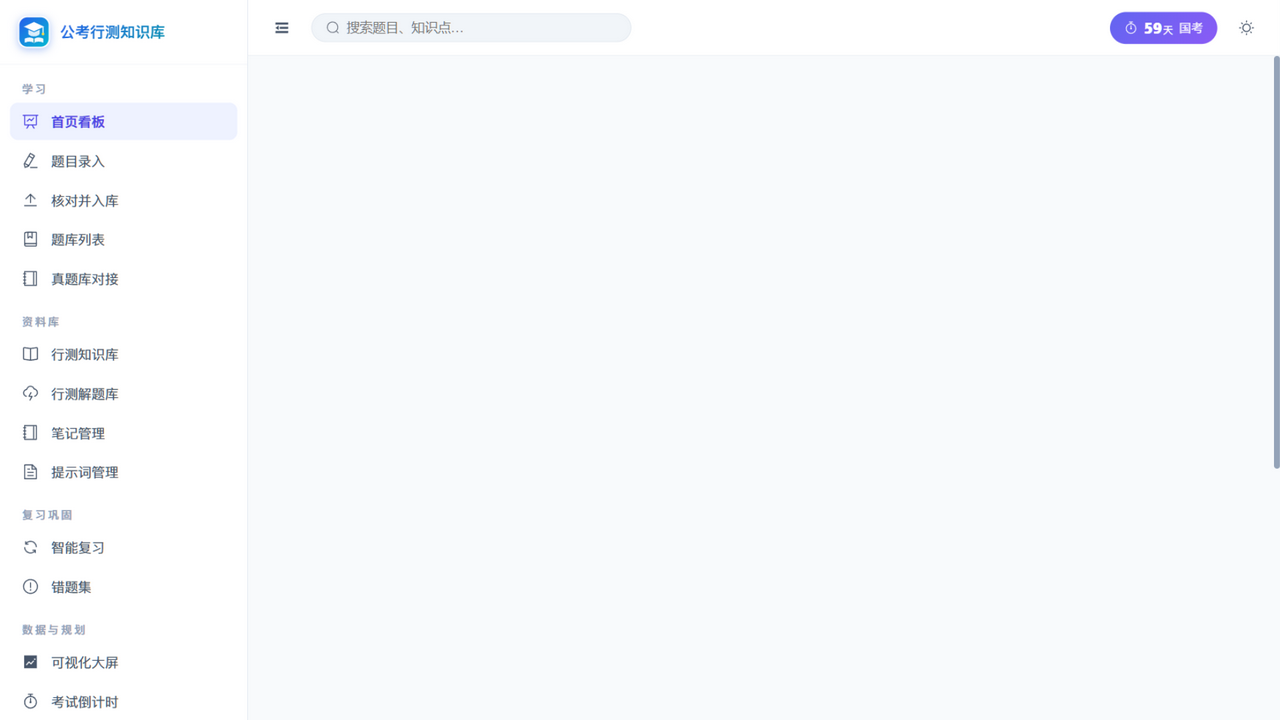
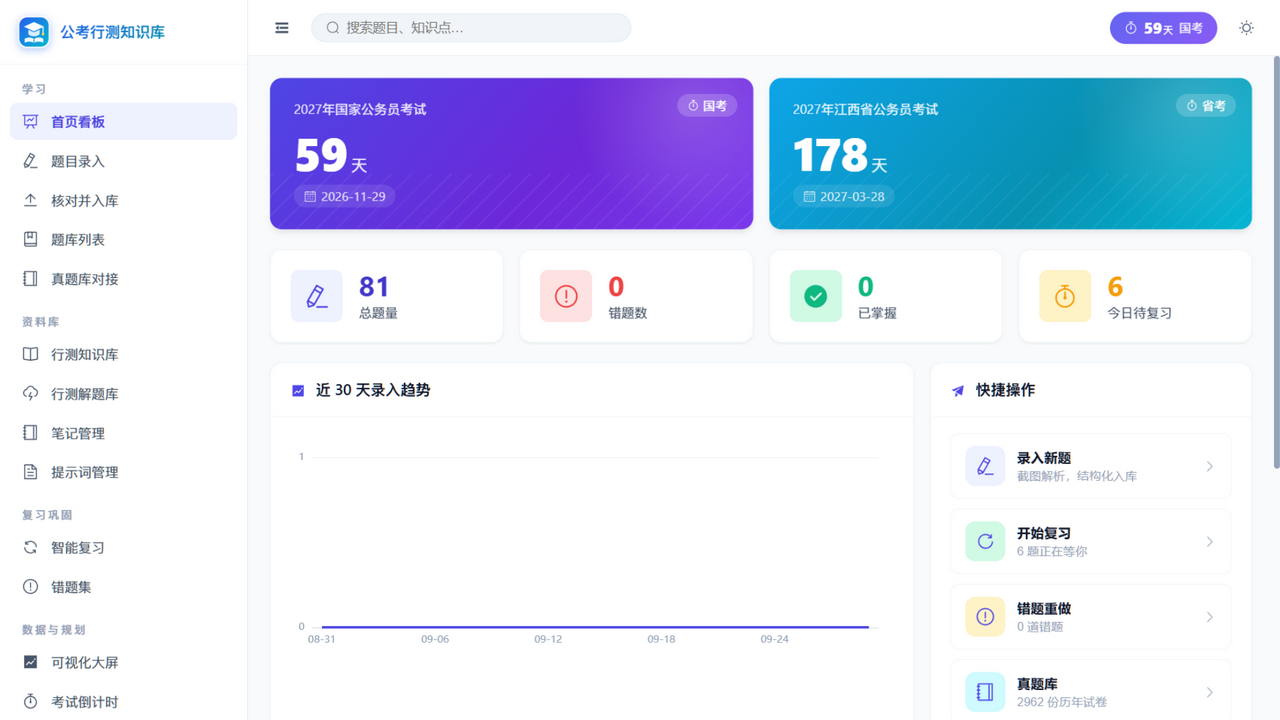
docs: README 回归旧版骨架并重截损坏截图
- 重截 dashboard.jpg / question-input.jpg（此前因路由懒加载截成空白页，
  改为轮询等待页面渲染完成后截图）
- README 按旧版结构组织：核心特性清单 → 技术栈表 → 目录结构 → 快速开始
  → 使用流程 → 界面预览表格 → 数据与隐私 → 开发 → 许可证；
  内容更新 v2.1（真题库对接 / FSRS / Anki 导出 / 数据集导入）

diff --git a/README.md b/README.md
@@ -1,8 +1,8 @@
 <div align="center">
 
-<img src="frontend/public/favicon.svg" width="72" alt="logo" />
+<img src="frontend/public/favicon.svg" width="64" alt="logo" />
 
-# 公考行测个人结构化知识库系统
+# 公考行测个人结构化知识库系统 v2.1
 
 **纯本地离线 · FSRS 记忆调度 · 真题库对接 · 零 AI 联网**
 
@@ -10,79 +10,80 @@
 [![Python](https://img.shields.io/badge/Python-3.11+-3776AB?logo=python&logoColor=white)](https://www.python.org/)
 [![FastAPI](https://img.shields.io/badge/FastAPI-0.104-009688?logo=fastapi&logoColor=white)](https://fastapi.tiangolo.com/)
 [![Vue 3](https://img.shields.io/badge/Vue-3-4FC08D?logo=vuedotjs&logoColor=white)](https://vuejs.org/)
-[![Element Plus](https://img.shields.io/badge/Element_Plus-2.4-409EFF?logo=element&logoColor=white)](https://element-plus.org/)
-
-一套**完全本地、离线运行**的公务员考试（行测）个人结构化备考系统：把外部 AI 生成的结构化解析一键入库，
-配合 **FSRS 科学复习**、**2962 份历年真题**、知识库/解题库沉淀与可视化复盘，全程不做任何 AI 联网调用。
-
-[快速开始](#-快速开始) · [界面预览](#-界面预览) · [核心特性](#-核心特性) · [复习算法](#-复习算法-fsrs) · [参与贡献](#-参与贡献)
 
 </div>
 
 ---
 
-## 🖼 界面预览
+一个**完全本地、离线**的公务员考试（行测）个人结构化备考系统。你只需把外部 AI 工具生成的**结构化解析内容**粘贴进来，系统即可自动解析为结构化题库、行测知识库与解题库，支撑错题复盘、FSRS 科学复习、备考笔记与可视化统计。**系统不做任何 AI 联网调用，AI 完全解耦。**
 
-| 首页看板 | 真题库对接 |
-| --- | --- |
-| ![首页看板](docs/screenshots/dashboard.jpg) | ![真题库对接](docs/screenshots/question-bank.jpg) |
-| **智能复习（FSRS 刷卡 + 快捷键）** | **可视化大屏** |
-| ![智能复习](docs/screenshots/review.jpg) | ![可视化大屏](docs/screenshots/visualization.jpg) |
-| **题目录入** | **行测知识库** |
-| ![题目录入](docs/screenshots/question-input.jpg) | ![行测知识库](docs/screenshots/knowledge.jpg) |
-
-> 更多截图见 [docs/screenshots](docs/screenshots/README.md)。
+---
 
 ## ✨ 核心特性
 
-### 📚 真题库对接（v2.1 新增）
-- 一键克隆并接入 [ERRRC/xingcezhenti](https://github.com/ERRRC/xingcezhenti)：**2016-2026 国考+省考 2962 份试卷、58890+ 道题**
-- 按六大模块浏览试卷 → 勾选题目 → 选择考点路径 → 批量入库，按题目 qid 自动去重
-- 题目图片（公式图/题目图）经本地媒体接口代理，浏览时直接渲染
-- **通用数据集导入**：C-Eval 等公开数据集（JSON/CSV/Parquet）放入 `data/question_sources/` 即可识别入库
+- 🧩 **七大模块驱动**：政治理论 / 常识判断 / 言语理解与表达 / 数量关系 / 判断推理 / 资料分析；按性质分为「记忆积累型」与「解题思路型」两类，贯穿提示词、录入、知识沉淀与统计。
+- 📥 **极简三步录入**：① 选考点复制提示词 → ② 粘贴 AI 返回的结构化解析 → ③ 解析预览 / 校正考点 / 确认入库；18 个结构化字段（细分考点 / 考察意图 / 破题逻辑 / 陷阱标注 / 速算技巧 / 卡片摘要…）。
+- 📚 **真题库对接（v2.1 新增）**：一键接入 [ERRRC/xingcezhenti](https://github.com/ERRRC/xingcezhenti)，**2016-2026 国考+省考 2962 份试卷**按模块浏览、勾选入库、按 qid 自动去重；题目图片本地代理直接渲染；支持 C-Eval 等公开数据集（JSON/CSV/Parquet）放入 `data/question_sources/` 即可导入。
+- 🧠 **FSRS 科学复习（v2.1 新增）**：接入 [FSRS 记忆调度算法](https://github.com/open-spaced-repetition/py-fsrs)（Anki 同款），每题独立稳定性/难度，动态安排复习时间；沉浸式刷卡界面，空格翻面、`1/2/3/4` 评分，提交即知下次复习时间；未安装 fsrs 库自动回退艾宾浩斯固定周期。
+- 📤 **Anki 牌组导出（v2.1 新增）**：一键导出 `.apkg`（题面 / 答案 / 解析 / 考点标签，公式图自动打包媒体），手机 AnkiDroid 随时随地刷题。
+- 📚 **行测知识库**：独立知识卡片，按「模块 / 类型 / 考点」三维导航；含考点定位面包屑与「来源题目」一键溯源。
+- 🛠 **行测解题库**：可复用的解题模板（破题逻辑 / 易错提醒 / 解题方法 / 速算技巧 / 题型识别）。
+- 🗂 **题库与详情**：按题型树分类、错题 / 掌握度筛选；题目详情展示 18 个结构化字段。
+- 📝 **备考笔记**：支持 AI 追问生成结构化笔记，卡片内完整展示题干与选项。
+- 📊 **可视化大屏**：雷达图（模块掌握度）、录入趋势、错题分布饼图、学习日历热力图、薄弱考点 TOP5。
+- 🎨 **现代界面**：Element Plus + 自建设计系统，明暗双主题、全站统一矢量图标、入场动画、侧栏分组、全局搜索。
+- 💾 **纯本地数据**：SQLite 单文件存储，一键备份 / 导出 Markdown、JSON 与 Anki 牌组。
 
-### 🧠 FSRS 科学复习（v2.1 新增）
-- 接入 [FSRS 记忆调度算法](https://github.com/open-spaced-repetition/py-fsrs)（Anki 同款），按每题独立的稳定性/难度动态安排复习时间
-- 沉浸式刷卡界面：空格翻面、`1/2/3/4` 评分，提交后即时反馈下次复习时间
-- 未安装 fsrs 库时自动回退经典艾宾浩斯固定周期
+---
 
-### 📤 Anki 牌组导出（v2.1 新增）
-- 一键把题库导出为 `.apkg`（题面 / 答案 / 解析 / 考点标签，公式图自动打包）
-- 手机安装 AnkiDroid 即可随时随地刷自己的题库
+## 🛠 技术栈
 
-### 📝 极简结构化录入
-- 选考点 → 复制内置提示词 → 粘贴给外部 AI（截图 + 提示词）→ 粘贴回 JSON → 自动解析入库
-- 18 个结构化字段：细分考点、考察意图、破题逻辑、陷阱标注、速算技巧、卡片摘要……
+| 层级 | 技术 |
+|------|------|
+| 前端 | Vue 3 + Vite + Element Plus + Pinia + vue-echarts + animate.css |
+| 后端 | Python FastAPI + SQLAlchemy |
+| 数据库 | SQLite（单文件，`data/gongkao.db`） |
+| 复习算法 | [FSRS（py-fsrs）](https://github.com/open-spaced-repetition/py-fsrs) 优先，艾宾浩斯固定周期兜底 |
+| 真题解析 | 本地 Markdown 试卷解析器（YAML 头 + 分题切块 + 图片代理），零联网 |
+| 部署 | 后端直接托管构建后的前端（`frontend/dist`），单进程即可运行 |
 
-### 🗂 知识沉淀体系
-- **行测知识库**：概念 / 公式 / 技巧 / 陷阱 / 易混点，按考点路径归档可检索
-- **行测解题库**：解题方法 / 速算技巧 / 易错提醒模板，与题目考点联动
-- **备考笔记**：AI 二次生成结构化笔记，题型判定 / 逻辑链 / 速解一步到位
+---
 
-### 📊 复盘与规划
-- 六大模块雷达图、错题分布、录入趋势、学习热力图、薄弱考点 TOP5
-- 国考 / 省考倒计时、备考阶段管理、错题本与错因标注
-- SQLite 单文件存储，一键备份 / JSON 全量导出
+## 📁 目录结构
 
-### 🎨 现代界面
-- Element Plus 组件 + 自建设计系统，**明暗双主题**、全站统一图标、入场动画
-- 侧栏分组导航、全局搜索、真题库侧栏浮动跟随
+```
+gongkao-system/
+├── backend/                 # FastAPI 后端
+│   ├── main.py              # 入口（同时托管前端 dist，端口 7080）
+│   ├── database.py          # 数据库模型（12 张表）
+│   ├── routers/             # API 路由（题目/复习/真题库/Anki 导出/统计/知识库/解题库…13 个）
+│   ├── services/            # 业务逻辑（FSRS 引擎 / 真题解析 / 数据集导入 / 统计）
+│   └── requirements.txt
+├── frontend/                # Vue 3 前端
+│   ├── src/views/           # 17 个页面
+│   ├── src/api/ · stores/ · router/ · utils/
+│   └── dist/                # 构建产物（git 忽略）
+├── data/                    # 本地数据目录（git 忽略，仅保留 .gitkeep）
+│   └── question_sources/    # 可选：C-Eval 等第三方数据集放入即可导入
+├── xingcezhenti/            # 可选：真题仓库克隆（git 忽略，约 214MB）
+├── docs/                    # 使用指南与界面截图
+├── .github/workflows/       # CI（后端导入检查 + 前端构建）
+├── install.bat / start.bat / stop.bat   # Windows 一键脚本
+├── start.sh / restart_backend.sh        # Linux / macOS 脚本
+└── LICENSE                  # MIT
+```
+
+---
 
 ## 🚀 快速开始
 
-### Windows（推荐）
-
-```bash
-git clone https://github.com/wqadlw/gongkao-system.git
-cd gongkao-system
-```
-
-1. 双击 `install.bat`（首次安装，自动创建 venv 并安装依赖）
-2. 双击 `start.bat` 启动
-3. 浏览器访问 **http://localhost:7080**
+### Windows
+1. `git clone https://github.com/wqadlw/gongkao-system.git`
+2. 双击 `install.bat`（首次：创建虚拟环境 + 安装依赖 + 构建前端）
+3. 双击 `start.bat` 启动
+4. 浏览器访问 `http://localhost:7080`
 
 ### Linux / macOS
-
 ```bash
 git clone https://github.com/wqadlw/gongkao-system.git
 cd gongkao-system
@@ -93,40 +94,62 @@ cd frontend && npm install && npm run build && cd ..
 ./start.sh
 ```
 
-### 可选：启用真题库
+### 可选：启用真题库与 FSRS
 
 ```bash
-# 项目根目录下克隆真题仓库（约 214MB）
+# 真题库：项目根目录下克隆真题仓库后重启后端，侧栏「真题库对接」自动识别
 git clone https://github.com/ERRRC/xingcezhenti.git
-# 重启后端，侧栏「真题库对接」即自动识别
+# FSRS：已包含在 requirements.txt，无需额外配置
 ```
 
-启用 FSRS 只需 `pip install fsrs`（已包含在 requirements.txt 中），无需额外配置。
+---
 
-## 🧠 复习算法 FSRS
-
-系统使用 [FSRS（Free Spaced Repetition Scheduler）](https://github.com/open-spaced-repetition/py-fsrs)调度复习：
-基于 DSR 记忆模型（Difficulty / Stability / Retrievability），每道题拥有独立的记忆状态，
-答错会压缩间隔、连续答对按遗忘曲线科学拉长周期，相比固定周期显著减少无效复习。
-学习期步长 1/10 分钟，目标记忆保持率默认 90%。
-
-## 📁 项目结构
+## 🔄 使用流程
 
 ```
-gongkao-system/
-├── backend/               # FastAPI 后端
-│   ├── main.py            # 入口（端口 7080）
-│   ├── database.py        # SQLAlchemy 模型（12 张表）
-│   ├── routers/           # 题目/复习/真题库/Anki/统计/备份… 13 个路由模块
-│   └── services/          # FSRS 引擎 / 真题解析 / 数据集导入 / 统计引擎
-├── frontend/              # Vue 3 + Element Plus + ECharts 前端
-│   └── src/views/         # 17 个页面
-├── data/                  # SQLite 数据库（gitignore，本地生成）
-│   └── question_sources/  # 可选：第三方数据集放入此目录
-├── docs/                  # 文档与截图
-├── install.bat / start.bat / start.sh
-└── xingcezhenti/          # 可选：真题仓库克隆（gitignore）
+粉笔 APP 刷题截图 → 系统选考点并复制提示词 →
+外部 AI 粘贴提示词 + 发送截图 → AI 返回结构化解析 →
+系统粘贴 → 解析预览 → 校正考点 → 确认入库 → FSRS 复习 / 复盘 / 统计
 ```
+
+也可以不走 AI：直接在「真题库对接」浏览 2962 份历年真题，勾选后按考点路径批量入库。
+
+---
+
+## 🖼 界面预览
+
+> 截图来自本地运行实例（`http://localhost:7080`）。
+
+| 页面 | 预览 |
+|------|------|
+| **首页看板** — 考试倒计时 / 统计概览 / 30 天录入趋势 / 快捷操作 | ![首页看板](docs/screenshots/dashboard.jpg) |
+| **真题库对接** — 2962 份历年试卷按模块浏览，题目含公式图直渲 | ![真题库对接](docs/screenshots/question-bank.jpg) |
+| **智能复习** — FSRS 刷卡模式：空格翻面、1-4 评分、即时反馈下次复习时间 | ![智能复习](docs/screenshots/review.jpg) |
+| **可视化大屏** — 雷达 / 趋势 / 错题分布 / 学习热力图 | ![可视化大屏](docs/screenshots/visualization.jpg) |
+| **题目录入** — 三步流程：复制提示词 → 粘贴 AI 返回 → 解析预览并入库 | ![题目录入](docs/screenshots/question-input.jpg) |
+| **行测知识库** — 知识卡片列表 / 模块导航 / 类型筛选 / 考点定位树 | ![行测知识库](docs/screenshots/knowledge.jpg) |
+| **提示词模板管理** — 六大模块提示词 / 通用+专属双模板体系 | ![提示词模板管理](docs/screenshots/prompts.jpg) |
+
+> 更多页面截图与命名规范见 [docs/screenshots](docs/screenshots/README.md)。
+
+---
+
+## 🔒 数据与隐私
+
+- 所有数据保存在本地 `data/gongkao.db`（SQLite），**不联网、不上传、无遥测**。
+- `data/`、`xingcezhenti/` 均已被 `.gitignore` 忽略，**你的数据库、真题仓库与导出文件不会被提交到仓库**。
+- 迁移 / 备份：直接复制整个项目目录或仅 `data/gongkao.db` 即可。
+
+---
+
+## 🧑💻 开发
+
+- 后端运行：`cd backend && python main.py`（默认 `http://127.0.0.1:7080`）
+- 前端开发：`cd frontend && npm run dev`（Vite 开发服务器，`/api` 代理到 `:7080`）
+- 前端构建：`cd frontend && npm run build` → 输出到 `frontend/dist/`
+- 质量保障：`.github/workflows/ci.yml` 在每次 push/PR 验证后端可导入 + 前端可构建。
+
+---
 
 ## 🗺 Roadmap
 
@@ -134,23 +157,8 @@ gongkao-system/
 - [ ] 更多公开数据集适配（Xiezhi 等）
 - [ ] FSRS 参数按个人复习记录优化
 
-## 🤝 参与贡献
-
-Issue / PR 均欢迎！开发调试：
-
-```bash
-cd backend && python -m uvicorn main:app --reload --port 7080
-cd frontend && npm run dev
-```
+---
 
 ## 📄 许可证
 
-[MIT](LICENSE) —— 题目数据版权归原仓库 [ERRRC/xingcezhenti](https://github.com/ERRRC/xingcezhenti) 及相应出题机构所有，仅供个人学习使用。
-
----
-
-<div align="center">
-
-**如果这个项目对你备考有帮助，欢迎点一个 ⭐**
-
-</div>
+[MIT](./LICENSE) © 2026 Name67 —— 题目数据版权归原仓库 [ERRRC/xingcezhenti](https://github.com/ERRRC/xingcezhenti) 及相应出题机构所有，仅供个人学习使用。
